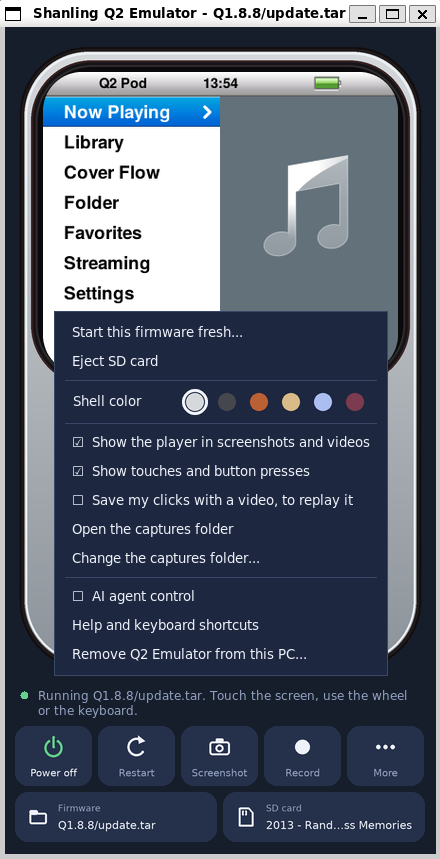
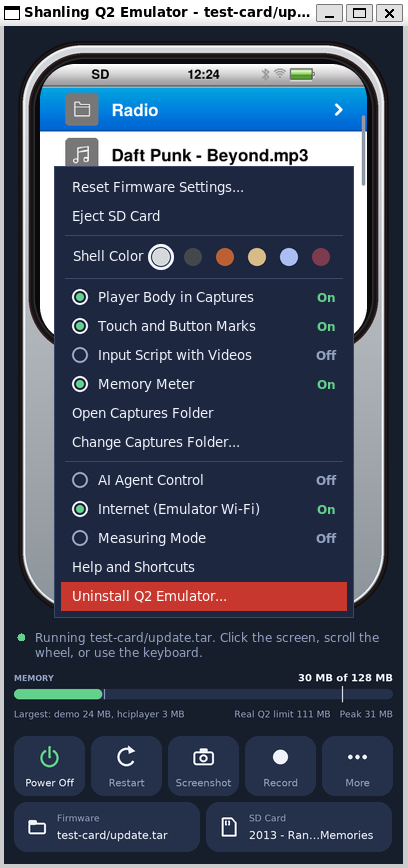
Home page: pictures of the 1.2 window

diff --git a/README.md b/README.md
@@ -41,10 +41,10 @@ Runs on Windows 10 and 11 with WSL 2, and offers to turn that on if it's missing
 
 <p align="center">
   <img src="docs/window.png" width="230" alt="The emulator window with a firmware running">
-  <img src="docs/window-more.png" width="230" alt="The More menu: shell colors, capture options, AI agent control">
-  <img src="docs/window-screen-off.png" width="230" alt="Recording while the player's screen is off">
+  <img src="docs/window-more.png" width="230" alt="The More menu: shell colors, capture options, Memory Meter, AI Agent Control, Internet, Measuring Mode">
+  <img src="docs/window-recording.png" width="230" alt="Recording a video of the player">
 </p>
-<p align="center"><em>The emulator window: a firmware running, the More menu, and recording while the player's screen is off.</em></p>
+<p align="center"><em>The emulator window: a firmware running, the More menu, and recording a video.</em></p>
 
 ## How close it is to a real Q2
 
